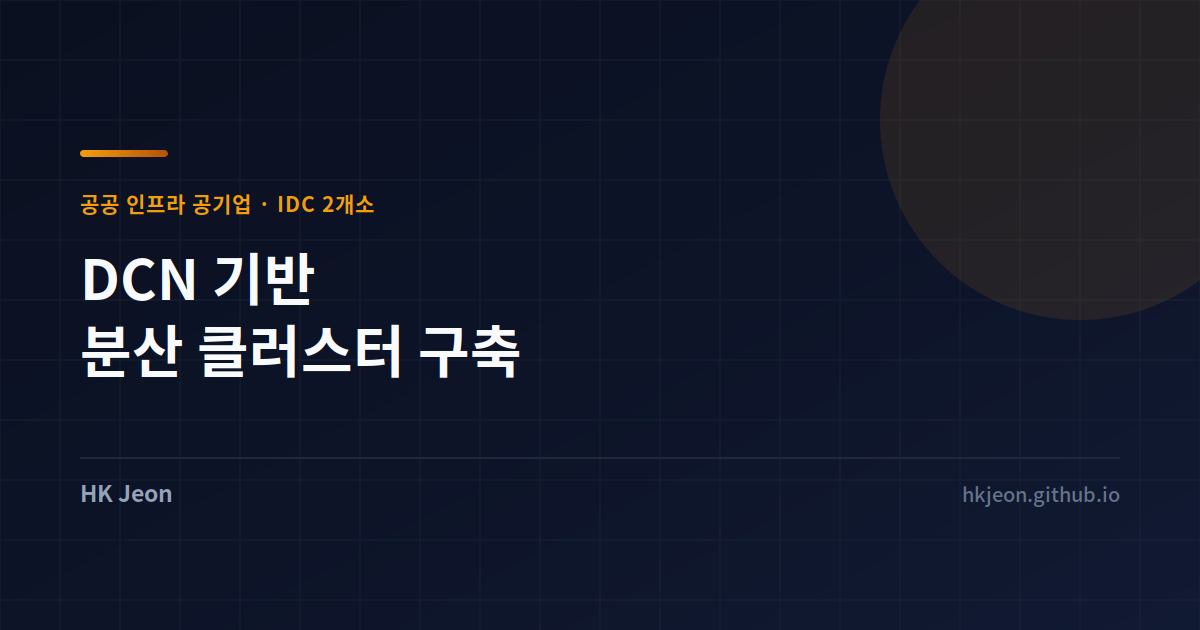
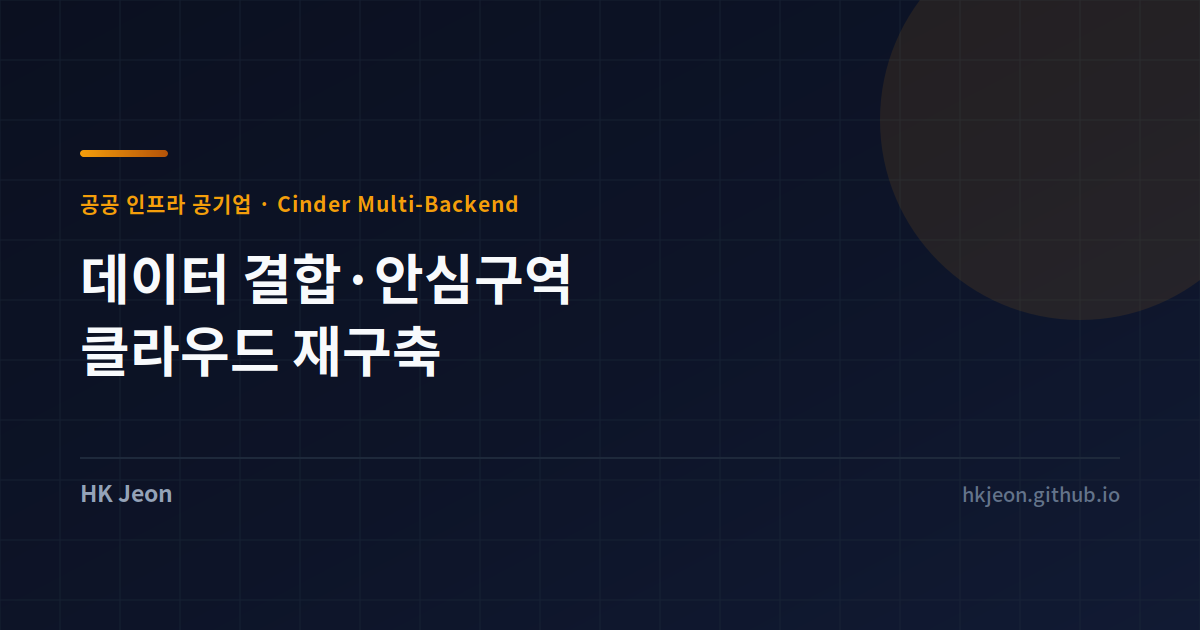
projects: 데이터 결합·안심구역 클라우드 재구축 카드 재작성
엔지니어링 시트 기반으로 실제 범위 반영
- 노드 구성(혼합형 3 + 컴퓨트 2), VM 9대 마이그레이션
- 구역별 스토리지 분리(Pure/NetApp), FC Multipath
- bond0 API·Tenant / bond1 Provider / bond2 Provider NAS 구조
- 업스트림 기여 카드 제거, 필터 버튼 조정

Changed region(s): [[0.0617, 0.3921, 0.4933, 0.4825], [0.0617, 0.5127, 0.4317, 0.6032], [0.2158, 0.3016, 0.4317, 0.3619]]

diff --git a/content/projects/public-dcn-multicluster/index.md b/content/projects/public-dcn-multicluster/index.md
@@ -1,6 +1,6 @@
 ---
-title: 공공 인프라 공기업 DCN 기반 분산 클러스터 구축
-summary: 두 곳으로 분리된 IDC에 4개 OpenStack 클러스터를 DCN 구조로 구성하고, 서로 다른 벤더 스토리지를 Cinder Multi-Backend로 통합한 사례
+title: 공공 인프라 공기업 데이터 결합·안심구역 클라우드 재구축
+summary: 운영 중이던 Kolla-Ansible 기반 OpenStack을 OpenStack-Ansible 기반으로 재구축하고, 구역별로 다른 벤더 스토리지를 Cinder Multi-Backend로 분리 연동한 사례
 tags:
   - OpenStack
   - Storage
@@ -14,59 +14,84 @@ date: '2025-05-01T00:00:00Z'
 | 발주처 | 공공 인프라 공기업 |
 | 기간 | 2024.12 ~ 2025.05 |
 | 역할 | 클라우드 인프라 설계 및 구축 |
-| 구성 | IDC 2개소 · OpenStack 클러스터 4개 |
-| 기술 | OpenStack-Ansible, DCN, Cinder Multi-Backend, Pure Storage, NetApp |
+| 대상 | 데이터 결합·안심구역 업무망 클러스터 |
+| 구성 | 베어메탈 5대 (혼합형 3 + 컴퓨트 2), 배포·컨트롤러 VM |
+| 기술 | OpenStack-Ansible, Cinder Multi-Backend, FC Multipath, Pure Storage, NetApp ONTAP |
 
 ## 과제
 
-세 가지가 겹쳤습니다.
+**1. 운영 중인 클러스터의 재구축**
 
-**1. 물리적으로 분리된 두 IDC**
+Kolla-Ansible로 구축돼 운영 중이던 환경을 OpenStack-Ansible 기반으로 다시 세워야 했습니다. 이미 서비스 중인 VM 9대를 그대로 옮기는 것이 전제였습니다.
 
-데이터센터와 본사가 지리적으로 떨어져 있고, 각각에 클러스터가 필요했습니다. 단순히 두 개를 따로 세우면 자원을 통합 관리할 수 없습니다.
+**2. 한 클러스터 안의 두 구역, 두 스토리지**
 
-**2. 기존 Kolla 기반 환경의 전환**
+결합기관 구역과 안심구역이 하나의 클러스터를 공유하는데, **구역마다 사용하는 스토리지 벤더가 달랐습니다.** 데이터가 구역을 넘나들면 안 되는 성격의 업무라 스토리지 분리가 요구사항이었습니다.
 
-이미 Kolla-Ansible로 구성된 OpenStack이 운영 중이었고, 이를 OpenStack-Ansible 기반으로 옮겨야 했습니다.
+**3. 제한된 노드로 컨트롤 플레인과 워크로드를 함께**
 
-**3. 연동 사례가 없는 스토리지 조합**
-
-두 IDC에 서로 다른 벤더의 스토리지가 들어가 있었습니다. OpenStack과 Pure Storage 연동은 국내에 참고할 구축 사례가 없었습니다.
+베어메탈 5대로 컨트롤러와 컴퓨트를 모두 수용해야 했습니다.
 
 ## 수행 내용
 
-**DCN 기반 분산 클러스터 구성**
+### 혼합형 노드 구성
 
-컨트롤러와 컴퓨트 간 통신을 L3 라우팅으로 구성해 데이터센터 간 분산 컴퓨팅을 지원하는 구조를 적용했습니다. 두 IDC의 자원을 하나의 관리 체계 안에서 다룰 수 있게 됩니다.
+베어메탈 3대를 **컨트롤러와 컴퓨트를 겸하는 혼합형**으로 구성하고, 나머지 2대를 컴퓨트 전용으로 두었습니다. 배포 노드와 별도 컨트롤러는 VM으로 올려 물리 자원 소모를 줄였습니다.
 
-**Cinder Multi-Backend 구현**
+노드 수가 적은 환경에서 HA를 유지하면서 워크로드 자원을 확보하는 방식입니다.
 
-각 IDC의 스토리지를 독립적으로 사용하면서도 하나의 클라우드에서 관리하도록 Cinder를 Multi-Backend로 구성했습니다.
+### 구역별 스토리지 분리 — Cinder Multi-Backend
 
-- 벤더별 스토리지 설정 템플릿을 사전 정의해 연동 절차를 표준화
-- VM의 Cinder Volume 생성 시 어느 물리 스토리지를 쓸지 선택 가능
+두 벤더의 FC 스토리지를 하나의 Cinder에 함께 물리고, 볼륨 타입으로 구분했습니다.
 
-**네트워크 구조 통합**
+| 구역 | 스토리지 | 드라이버 | 연결 |
+|---|---|---|---|
+| 결합기관 | Pure Storage | `PureFCDriver` | FC |
+| 안심구역 | NetApp ONTAP | `NetAppDriver` | FC |
 
-기존에 분리해 운영하던 External Network와 Internal Network를 통합 구성하는 방안을 실증하고 적용했습니다. 관리 대상 네트워크가 줄어 운영 부담이 낮아집니다.
+볼륨 생성 시 타입을 지정하면 해당 구역의 스토리지에만 생성됩니다. 구역 간 데이터 분리를 스토리지 계층에서 보장하는 구조입니다.
 
-**Compact 아키텍처 적용**
+안심구역 백엔드에는 이미지 볼륨 캐시를 함께 활성화했습니다. 같은 이미지로 VM을 반복 생성할 때 Glance에서 매번 내려받지 않고 스토리지 내부에서 복제하므로 생성 시간이 크게 줄어듭니다.
 
-컨트롤러와 컴퓨트를 함께 배치하는 구조를 적용해 노드 수 대비 가용 자원을 확보했습니다.
+### 네트워크 설계
+
+물리 NIC을 역할별로 본딩해 세 갈래로 나눴습니다.
+
+| Bond | 용도 | 브리지 |
+|---|---|---|
+| bond0 | API · Tenant | — |
+| bond1 | Provider (서비스) | `br-provider` |
+| bond2 | Provider (NAS) | `br-nas` |
+
+**NAS 접근 경로를 별도 Provider로 분리한 것**이 특징입니다. VM이 NAS 볼륨을 붙일 때 서비스 트래픽과 경로가 섞이지 않습니다.
+
+Provider network는 모두 flat으로 구성했습니다. 구역별로 대역을 나누고 VM은 Provider network에 직접 붙는 구조라, 가상 라우터를 거치지 않아 지연이 줄고 Floating IP 관리 부담도 없습니다.
+
+### FC Multipath 구성
+
+각 노드에 HBA를 이중으로 두고 Multipath를 구성했습니다. 노드별 WWN을 사전에 정리해 스토리지 존닝과 대조하는 절차를 문서화했고, 이 목록이 이후 장애 대응과 증설의 기준이 됐습니다.
+
+### VM 마이그레이션
+
+기존 환경의 VM 9대를 신규 클러스터로 이관했습니다. 각 VM의 네트워크 인터페이스와 IP, 연결된 스토리지를 사전에 매핑해 이관 후 동일하게 재현되도록 준비했습니다.
 
 ## 결과
 
 | 항목 | 내용 |
 |---|---|
-| 클러스터 | IDC 2개소에 4개 클러스터 구축 |
-| 스토리지 | 서로 다른 벤더 2종 동시 연결 및 선택적 사용 |
-| 전환 | Kolla-Ansible → OpenStack-Ansible 기반 재구성 |
-| 내재화 | 스토리지 연동 설정을 템플릿으로 정리해 재사용 가능하도록 정리 |
+| 재구축 | Kolla-Ansible → OpenStack-Ansible 전환 완료 |
+| 마이그레이션 | 기존 VM 9대 이관 |
+| 스토리지 | 벤더 2종 동시 연동, 구역별 분리 사용 |
+| 내재화 | 벤더별 Cinder 연동 템플릿을 사전 정의해 재사용 가능하도록 정리 |
 
 ## 배운 것
 
 **Multi-Backend는 DR이 아닙니다.**
 
-당초 재해복구 구성을 염두에 두고 검토했지만, Cinder Multi-Backend 자체는 **볼륨을 어느 스토리지에 생성할지 선택하는 기능**이지 이중화나 복제를 제공하지 않습니다. 이 구분을 명확히 하고 요구사항을 다시 정리하는 과정이 필요했습니다.
+초기 검토 단계에서는 재해복구 구성까지 기대가 있었지만, Cinder Multi-Backend는 **볼륨을 어느 스토리지에 생성할지 선택하는 기능**이지 복제나 이중화를 제공하지 않습니다. 이 구분을 명확히 하고 요구사항을 다시 정리하는 과정이 필요했습니다.
 
-기능의 이름만 보고 기대를 세우면 검수 단계에서 문제가 됩니다. **무엇을 제공하고 무엇을 제공하지 않는지**를 먼저 확인하는 습관이 중요합니다.
+기능 이름만 보고 기대를 세우면 검수 단계에서 문제가 됩니다. **무엇을 제공하고 무엇을 제공하지 않는지**를 먼저 확인하는 습관이 중요합니다.
+
+**`default_volume_type`이 실제 동작을 결정합니다.**
+
+백엔드를 여러 개 등록해도, 사용자가 타입을 지정하지 않으면 기본 타입 하나로만 볼륨이 생깁니다. 설정 파일에 두 백엔드가 나란히 있다고 해서 자동으로 나눠 쓰이지 않습니다. 구역별 분리를 의도했다면 **볼륨 타입과 기본값까지 함께 설계해야** 합니다.

diff --git a/content/_index.md b/content/_index.md
@@ -60,8 +60,10 @@ sections:
           tag: OpenStack
         - name: Storage
           tag: Storage
-        - name: Open Source
-          tag: Open Source
+        - name: NFV
+          tag: NFV
+        - name: Kubernetes
+          tag: Kubernetes
       default_button_index: 0
       # Archive link auto-shown if more projects exist than 'count' above
       # archive:
